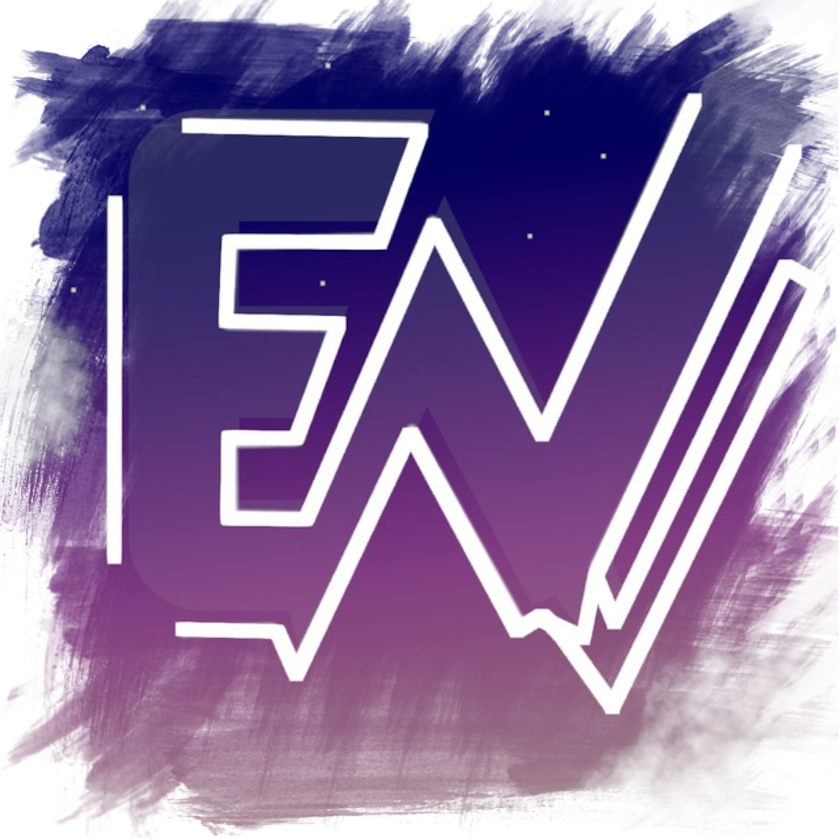
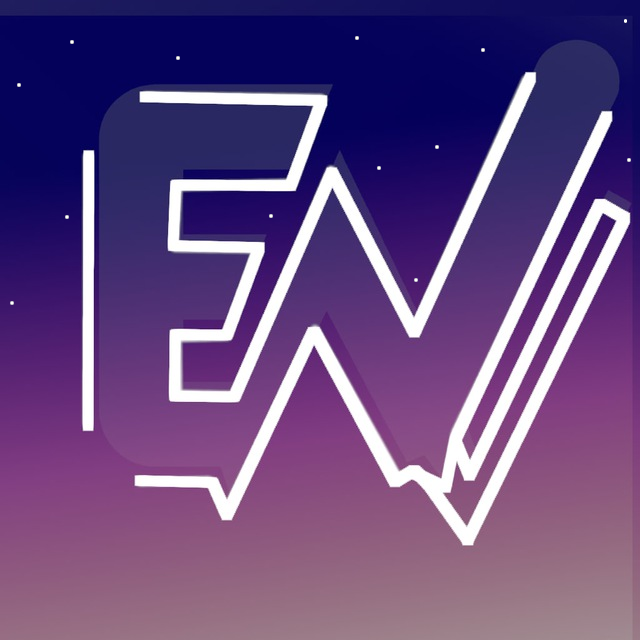
probably the last commit

diff --git a/index.html b/index.html
@@ -242,7 +242,7 @@
 
             <!--==================== Articles ====================-->
             <section class="questions section" id="faqs">
-                <h2 class="section__title-center questions__title container">
+                <h2 class="section__title-center">
                     Some of our <br> Publications
                 </h2>
 
@@ -279,20 +279,31 @@
                         </div>
                     </div>
                 </div>
-                <h2 class="section__title-center questions__title container">
-                   Exclusive Interviews
-                </h2>
-                <div class="steps__bg">
-                <div class="steps__container grid">
-                    <div class="steps__card" >
-                        <iframe width="560" height="315" src="https://www.youtube-nocookie.com/embed/xhGM-fJMFEI?si=dlSUdc6cXzLYVKwk&amp;controls=0" title="YouTube video player" frameborder="0" allow="accelerometer; autoplay; clipboard-write; encrypted-media; gyroscope; picture-in-picture; web-share" allowfullscreen></iframe>
-                    <iframe width="560" height="315" src="https://www.youtube-nocookie.com/embed/Z288jGd8Whc?si=CtoIDYP0oXngnqUo&amp;controls=0&amp;start=12" title="YouTube video player" frameborder="0" allow="accelerometer; autoplay; clipboard-write; encrypted-media; gyroscope; picture-in-picture; web-share" allowfullscreen></iframe>
-                    <iframe width="560" height="315" src="https://www.youtube-nocookie.com/embed/J446rfsedxE?si=75epzA8fr0E5khgq&amp;controls=0&amp;start=3" title="YouTube video player" frameborder="0" allow="accelerometer; autoplay; clipboard-write; encrypted-media; gyroscope; picture-in-picture; web-share" allowfullscreen></iframe>
 
-                    </div>
-                </div>
-            </div>
-                            </section>
+
+                <!--Exclusive interviews-->
+
+                        <h2 class="section__title-center">
+                            Exclusive <br> Interviews
+                        </h2>
+    
+                        <div class="steps__container grid">
+                            <div class="steps__card wrapper iframe">
+                                <iframe src="https://www.youtube-nocookie.com/embed/xhGM-fJMFEI?si=dlSUdc6cXzLYVKwk&amp;controls=0" title="YouTube video player" frameborder="0" allow="accelerometer; autoplay; clipboard-write; encrypted-media; gyroscope; picture-in-picture; web-share" allowfullscreen></iframe>
+                            </div>
+    
+                            <div class="steps__card wrapper iframe">
+                                <iframe src="https://www.youtube-nocookie.com/embed/Z288jGd8Whc?si=CtoIDYP0oXngnqUo&amp;controls=0&amp;start=12" title="YouTube video player" frameborder="0" allow="accelerometer; autoplay; clipboard-write; encrypted-media; gyroscope; picture-in-picture; web-share" allowfullscreen></iframe>
+                            </div>
+    
+                            <div class="steps__card wrapper iframe">
+                                <iframe src="https://www.youtube-nocookie.com/embed/J446rfsedxE?si=75epzA8fr0E5khgq&amp;controls=0&amp;start=3" title="YouTube video player" frameborder="0" allow="accelerometer; autoplay; clipboard-write; encrypted-media; gyroscope; picture-in-picture; web-share" allowfullscreen></iframe>
+                            </div>
+
+                        </div>
+
+                    </section>    
+
 
             <!--==================== CONTACT ====================-->
             <section class="contact section container" id="contact">                

diff --git a/assets/css/styles.css b/assets/css/styles.css
@@ -876,14 +876,42 @@ the website, in dark theme
     padding: 1.5rem;
   }
 
+  .steps__card_2{
+    padding: 1.5rem;
+    align-items: center;
+  }
+
   .product__container{
     grid-template-columns: .6fr;
     justify-content: center;
   }
 }
 
+.wrapper {
+  position: relative;
+  padding-bottom: 56.25%; /* 16:9 */
+  padding-top: 25px;
+  height: 0;
+}
+.wrapper iframe {
+  position: absolute;
+  top: 0;
+  left: 0;
+  width: 100%;
+  height: 100%;
+}
+
+
+
 /* For medium devices */
 @media screen and (min-width: 576px){
+  .wrapper iframe {
+    position: absolute;
+    top: 0;
+    left: 0;
+    width: 100%;
+    height: 100%;
+  }
   .steps__container{
     grid-template-columns: repeat(2, 1fr);
   }